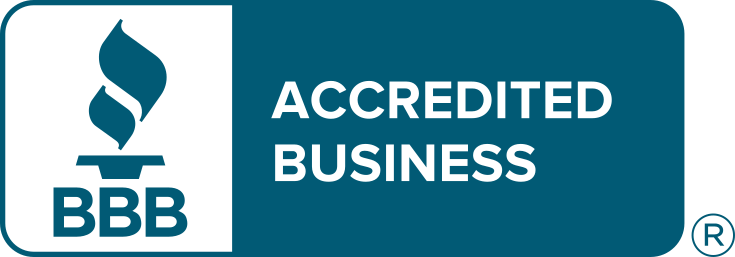
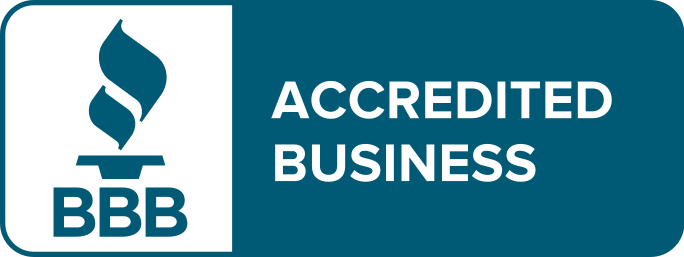
Tweak BBB Accredited Business graphic

diff --git a/site/layouts/partials/footer.html b/site/layouts/partials/footer.html
@@ -8,7 +8,7 @@
 			<div class="tc pa3">
 				<a
 					href="https://www.bbb.org/us/ky/lexington/profile/cpr-certification/noble-nurses-0392-9115038#bbbseal"><img
-						src="img/bbb-accredited-business.png" style="width: 250px; height: 87px;" /></a>
+						src="img/bbb-accredited-business.png" style="width: 250px; height: 94px;" /></a>
 			</div>
 
 
